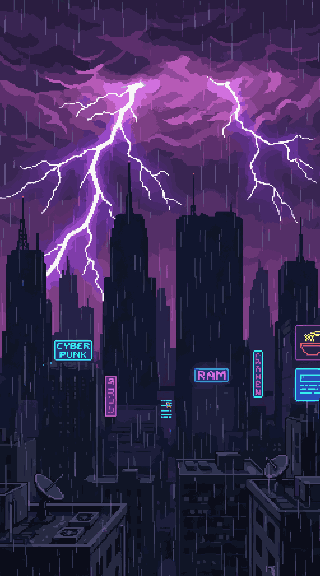
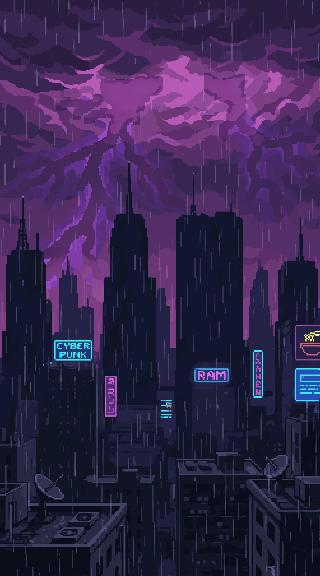
feat(bgevents): la foudre frappe en sprites — éclairs retirés du fond, dessinés pendant l'événement

Changed region(s): [[0.0312, 0.125, 0.5625, 0.5312], [0.625, 0.125, 1.0, 0.375]]

diff --git a/1st_Slop/src/render/bgevents.js b/1st_Slop/src/render/bgevents.js
@@ -1,10 +1,18 @@
 import { CONFIG } from '../config.js';
 import { foudreAlpha } from '../game/bgevents.js';
 
-function drawFoudre(ctx, e) {
-  // Dessiné AVANT le premier plan : le ciel s'illumine, les silhouettes
-  // near restent sombres (contre-jour plausible).
-  ctx.fillStyle = `rgba(210,225,255,${foudreAlpha(e).toFixed(3)})`;
+function drawFoudre(ctx, e, assets) {
+  // L'éclair (sprite tiré au déclenchement) déchire le ciel, le voile
+  // plafonné passe par-dessus — les portes restent lisibles. Dessiné AVANT
+  // le premier plan : les silhouettes near restent en contre-jour.
+  const a = foudreAlpha(e);
+  const bolt = assets && assets['bg3-eclair-' + e.bolt];
+  if (bolt) {
+    ctx.globalAlpha = Math.min(1, a / 0.35);
+    ctx.drawImage(bolt, Math.round(e.boltX), 0);
+    ctx.globalAlpha = 1;
+  }
+  ctx.fillStyle = `rgba(210,225,255,${a.toFixed(3)})`;
   ctx.fillRect(0, 0, CONFIG.WIDTH, CONFIG.HEIGHT);
 }
 
@@ -53,10 +61,10 @@ function drawTorchere(ctx, e, farOffset) {
   ctx.globalAlpha = 1;
 }
 
-export function renderBgEvents(ctx, world) {
+export function renderBgEvents(ctx, world, assets) {
   const e = world.bgEvents.event;
   if (!e) return;
-  if (e.kind === 'foudre') drawFoudre(ctx, e);
+  if (e.kind === 'foudre') drawFoudre(ctx, e, assets);
   else if (e.kind === 'etoile') drawEtoile(ctx, e);
   else if (e.kind === 'oiseaux') drawOiseaux(ctx, e);
   else if (e.kind === 'torchere') drawTorchere(ctx, e, world.layers[0].offset);

diff --git a/1st_Slop/tests/render/bgevents.test.js b/1st_Slop/tests/render/bgevents.test.js
@@ -31,6 +31,23 @@ describe('renderBgEvents', () => {
     expect(alpha).toBeCloseTo(0.35, 3);
   });
 
+  it('foudre : dessine le sprite d éclair tiré, puis le voile par-dessus', () => {
+    const ctx = fakeCtx();
+    ctx.drawImage = (...a) => ctx.calls.push(['img', ...a]);
+    const assets = { 'bg3-eclair-1': { width: 96, height: 288 } };
+    renderBgEvents(ctx, worldWith({ kind: 'foudre', t: 0, dur: 0.5, bolt: 1, boltX: 130 }), assets);
+    expect(ctx.calls.length).toBe(2);
+    expect(ctx.calls[0][0]).toBe('img');
+    expect(ctx.calls[0][2]).toBe(130); // dx = boltX
+    expect(ctx.calls[1]).toEqual([0, 0, CONFIG.WIDTH, CONFIG.HEIGHT]); // voile après
+  });
+
+  it('foudre sans assets : seul le voile (rétro-compatible)', () => {
+    const ctx = fakeCtx();
+    renderBgEvents(ctx, worldWith({ kind: 'foudre', t: 0, dur: 0.5, bolt: 0, boltX: 30 }));
+    expect(ctx.calls.length).toBe(1);
+  });
+
   it('étoile : tête + traînée (7 points), globalAlpha restauré à 1', () => {
     const ctx = fakeCtx();
     renderBgEvents(ctx, worldWith({ kind: 'etoile', t: 0.2, dur: 0.7, x0: 60, y0: 40, vx: 260, vy: 110 }));

diff --git a/1st_Slop/tests/game/bgevents.test.js b/1st_Slop/tests/game/bgevents.test.js
@@ -36,6 +36,18 @@ describe('bgevents planificateur (cadence par décor — retour gate Jael)', () 
     }
   });
 
+  it('foudre : tire la forme et la position de l éclair au déclenchement', () => {
+    const ev = createBgEvents();
+    resetBgEvents(ev, 3);
+    updateBgEvents(ev, 2, 3, zero);
+    expect(ev.event).toMatchObject({ kind: 'foudre', bolt: 0, boltX: 30 });
+    const ev2 = createBgEvents();
+    resetBgEvents(ev2, 3);
+    updateBgEvents(ev2, 2, 3, half);
+    expect(ev2.event.bolt).toBe(1);       // floor(0.5*3)
+    expect(ev2.event.boltX).toBe(130);    // 30 + 0.5*200
+  });
+
   it('un seul événement actif : pas de re-déclenchement pendant', () => {
     const ev = createBgEvents();
     resetBgEvents(ev, 3);

diff --git a/1st_Slop/src/game/bgevents.js b/1st_Slop/src/game/bgevents.js
@@ -26,7 +26,7 @@ const EVENTS = [
   (rand) => ({ kind: 'rafale', dur: 1.2 }),
   (rand) => ({ kind: 'torchere', dur: 2.5, spot: TORCH_SPOTS[Math.floor(rand() * TORCH_SPOTS.length)] }),
   (rand) => ({ kind: 'oiseaux', dur: 9, baseY: 150 + rand() * 110, dir: rand() < 0.5 ? 1 : -1 }),
-  (rand) => ({ kind: 'foudre', dur: 0.5 }),
+  (rand) => ({ kind: 'foudre', dur: 0.5, bolt: Math.floor(rand() * 3), boltX: 30 + rand() * 200 }),
   (rand) => ({
     kind: 'etoile', dur: 0.7,
     x0: 40 + rand() * 200, y0: 30 + rand() * 150,

diff --git a/1st_Slop/src/render/renderer.js b/1st_Slop/src/render/renderer.js
@@ -41,7 +41,7 @@ export function renderWorld(ctx, world, assets) {
 
   // 1b. Événement de fond (foudre, étoile filante, oiseaux, torchère) —
   // derrière le premier plan : les silhouettes restent en contre-jour.
-  renderBgEvents(ctx, world);
+  renderBgEvents(ctx, world, assets);
 
   // 2. Near foreground (horizontal parallax, tiled twice)
   const drawHeight = Math.round(180 * CONFIG.WIDTH / 320);